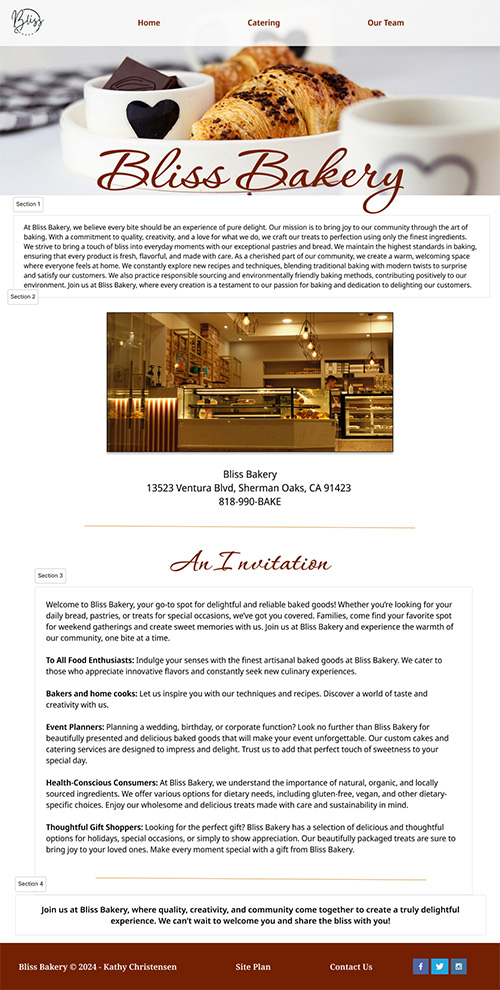
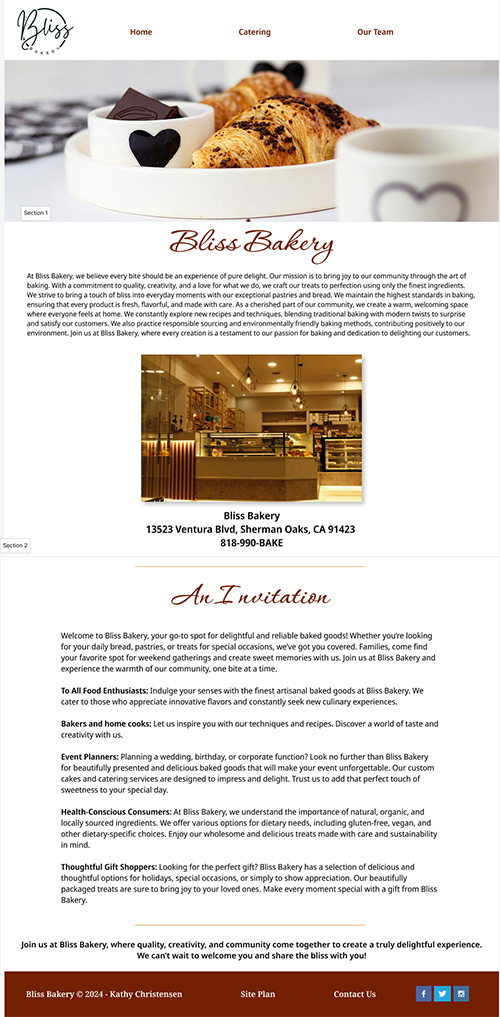
small changes to bliss home

diff --git a/bliss/index.html b/bliss/index.html
@@ -19,15 +19,16 @@
                 <a href="ourteam.html">Our Team</a>
             </nav>
         </header>
-
+        
         <div id="hero">
         <div id="hero-box">
             <img id="hero-img" src="images/bannermain.jpg" alt="Croissants and hot chocolate">
-            <h1 class="home-title">Bliss Bakery</h1>
+            
         </div>
       </div>
       <main class="home-grid">
       <section>
+        <h1 class="home-title">Bliss Bakery</h1>
         <div id="mission">
             <p>At Bliss Bakery, we believe every bite should be an experience of pure delight. Our mission is to bring 
             joy to our community through the art of baking. With a commitment to quality, creativity, and a love for 
@@ -54,31 +55,31 @@
             your favorite spot for weekend gatherings and create sweet memories with us. Join us at Bliss Bakery and 
             experience the warmth of our community, one bite at a time.</p>
             
-            <p><span>To All Food Enthusiasts:</span> Indulge your senses with the finest artisanal baked goods at Bliss Bakery. We 
+            <p><span id="bakers">To All Food Enthusiasts:</span> Indulge your senses with the finest artisanal baked goods at Bliss Bakery. We 
             cater to those who appreciate innovative flavors and constantly seek new culinary experiences.</p>
 
-            <p><span>Bakers and Home Cooks:</span> Let us inspire you with our techniques and recipes. Discover a world of taste and 
+            <p><span id="bakers">Bakers and Home Cooks:</span> Let us inspire you with our techniques and recipes. Discover a world of taste and 
             creativity with us.</p>
             
-            <p><span>Event Planners:</span> Planning a wedding, birthday, or corporate function? Look no further than Bliss Bakery for 
+            <p><span id="bakers">Event Planners:</span> Planning a wedding, birthday, or corporate function? Look no further than Bliss Bakery for 
             beautifully presented and delicious baked goods that will make your event unforgettable. Our custom cakes and 
             catering services are designed to impress and delight. Trust us to add that perfect touch of sweetness to your 
             special day.</p>
             
-            <p><span>Health-Conscious Consumers:</span> At Bliss Bakery, we understand the importance of natural, organic, and locally 
+            <p><span id="bakers">Health-Conscious Consumers:</span> At Bliss Bakery, we understand the importance of natural, organic, and locally 
             sourced ingredients. We offer various options for dietary needs, including gluten-free, vegan, and other 
             dietary-specific choices. Enjoy our wholesome and delicious treats made with care and sustainability in mind.</p>
             
-            <p><span>Thoughtful Gift Shoppers:</span> Looking for the perfect gift? Bliss Bakery has a selection of delicious and thoughtful 
+            <p><span id="bakers">Thoughtful Gift Shoppers:</span> Looking for the perfect gift? Bliss Bakery has a selection of delicious and thoughtful 
             options for holidays, special occasions, or simply to show appreciation. Our beautifully packaged treats are sure 
             to bring joy to your loved ones. Make every moment special with a gift from Bliss Bakery.</p>
         </div>
-      </section>
+      
 
       <hr id="home-line2">
 
-      <section>
-        <div id="join">Join us at Bliss Bakery, where quality, creativity, and community come together to create a truly delightful experience. 
+      
+        <div id="join">Join us at Bliss Bakery, where quality, creativity, and community come together to create a truly delightful experience.<br> 
         We can’t wait to welcome you and share the bliss with you!</div>
       </section>
       </main>

diff --git a/bliss/styles/style.css b/bliss/styles/style.css
@@ -3,7 +3,7 @@
 body {
     background-color:white; 
     font-family: 'Noto', Arial, Helvetica, sans-serif;
-    font-size : 14px;
+    font-size : 16px;
     margin: 0;
     padding: 0;
     width:100%;
@@ -121,8 +121,8 @@ main section {
 }
 
 #welcome {
-    padding-left: 150px;
-    padding-right: 150px;
+    padding-left: 175px;
+    padding-right: 175px;
     padding-bottom: 10px;
 }
 
@@ -132,6 +132,11 @@ main section {
     padding-top: 30px;
     padding-bottom: 15px;
     font-weight: 700;
+    text-align: center;
+}
+
+#bakers {
+    font-weight: 550;
 }
 
 hr {
